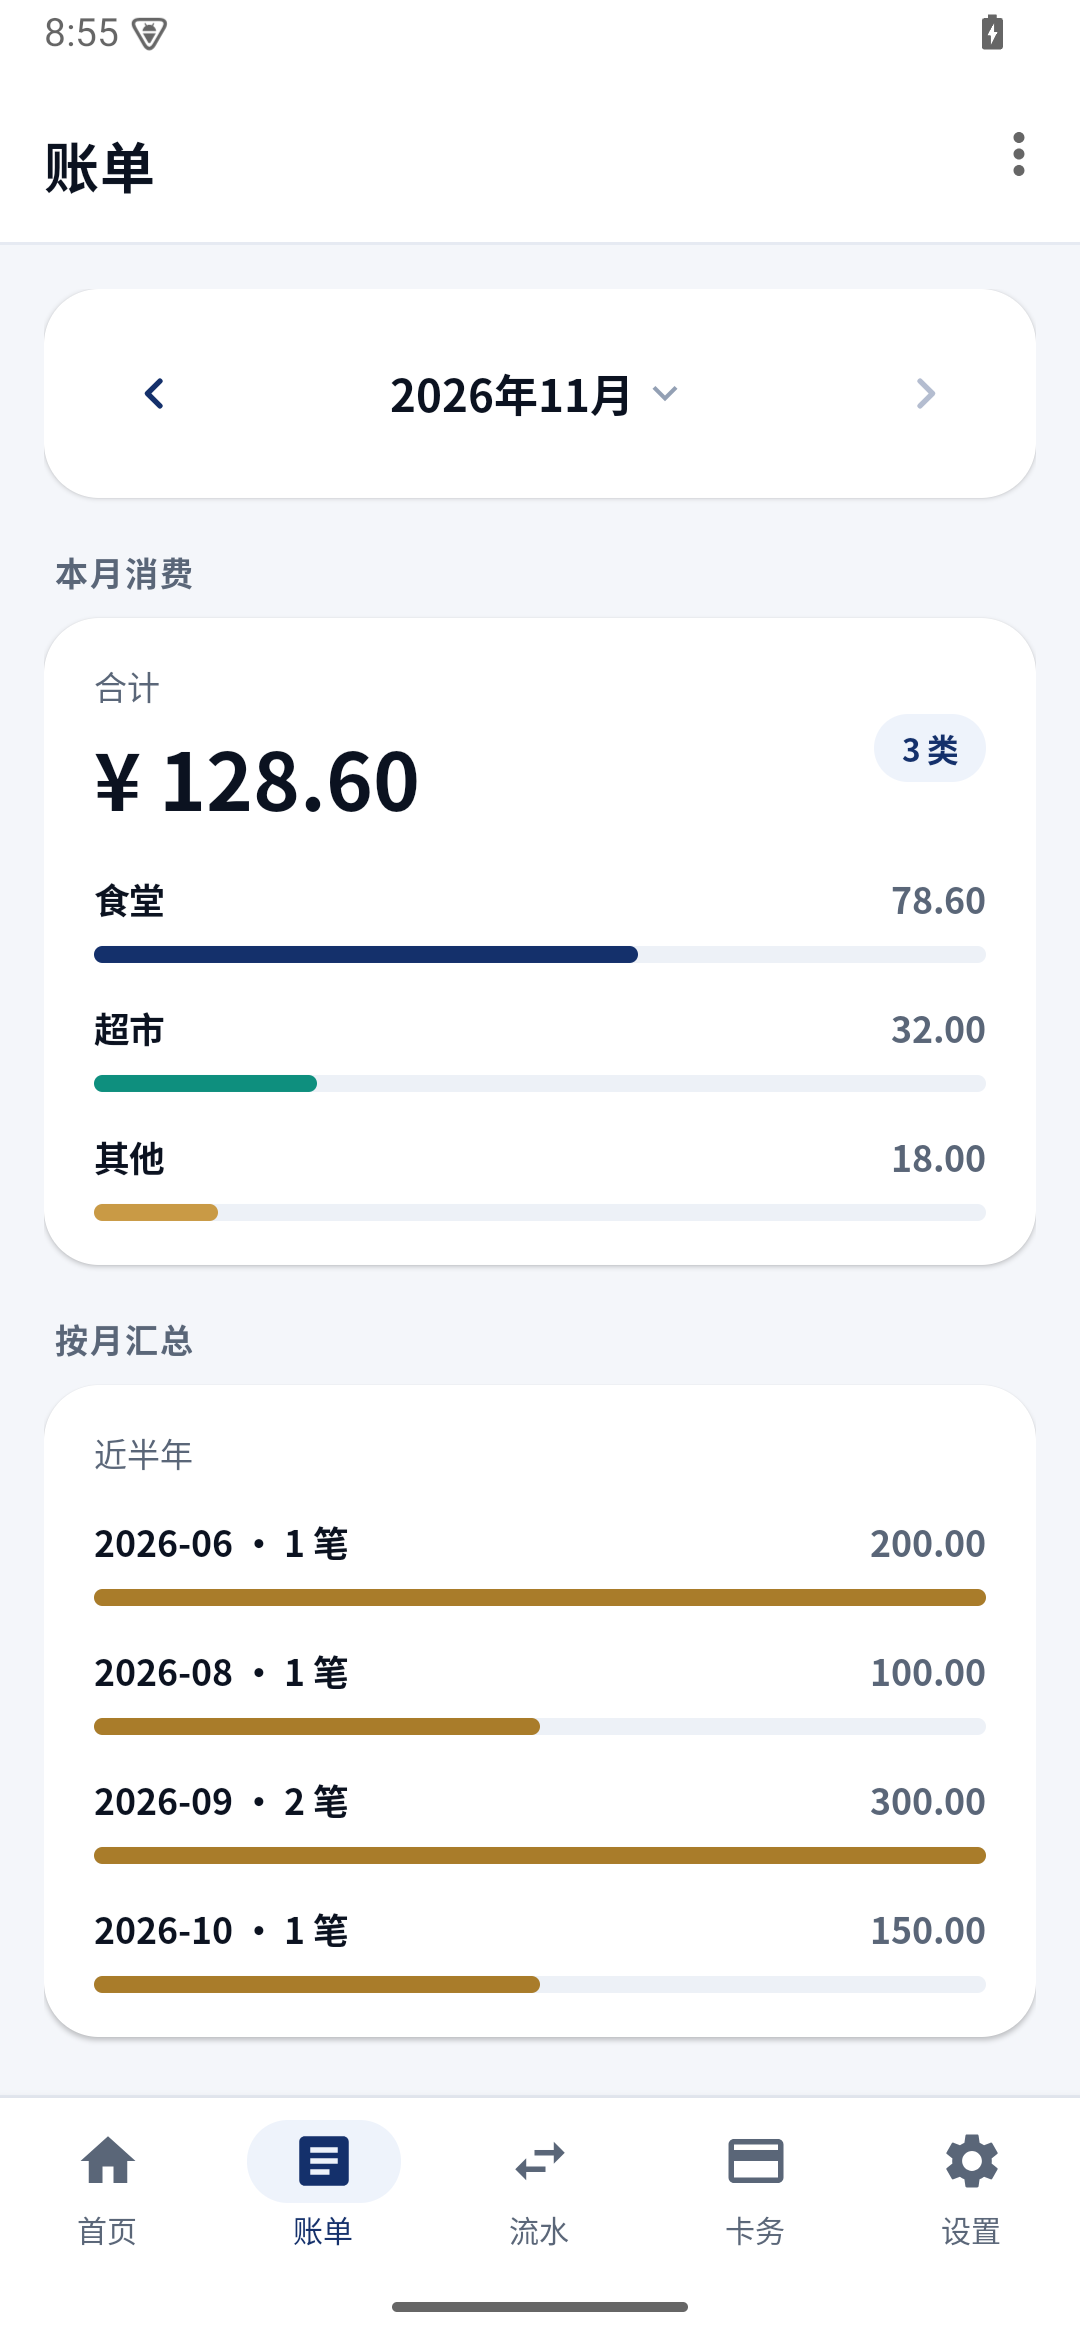
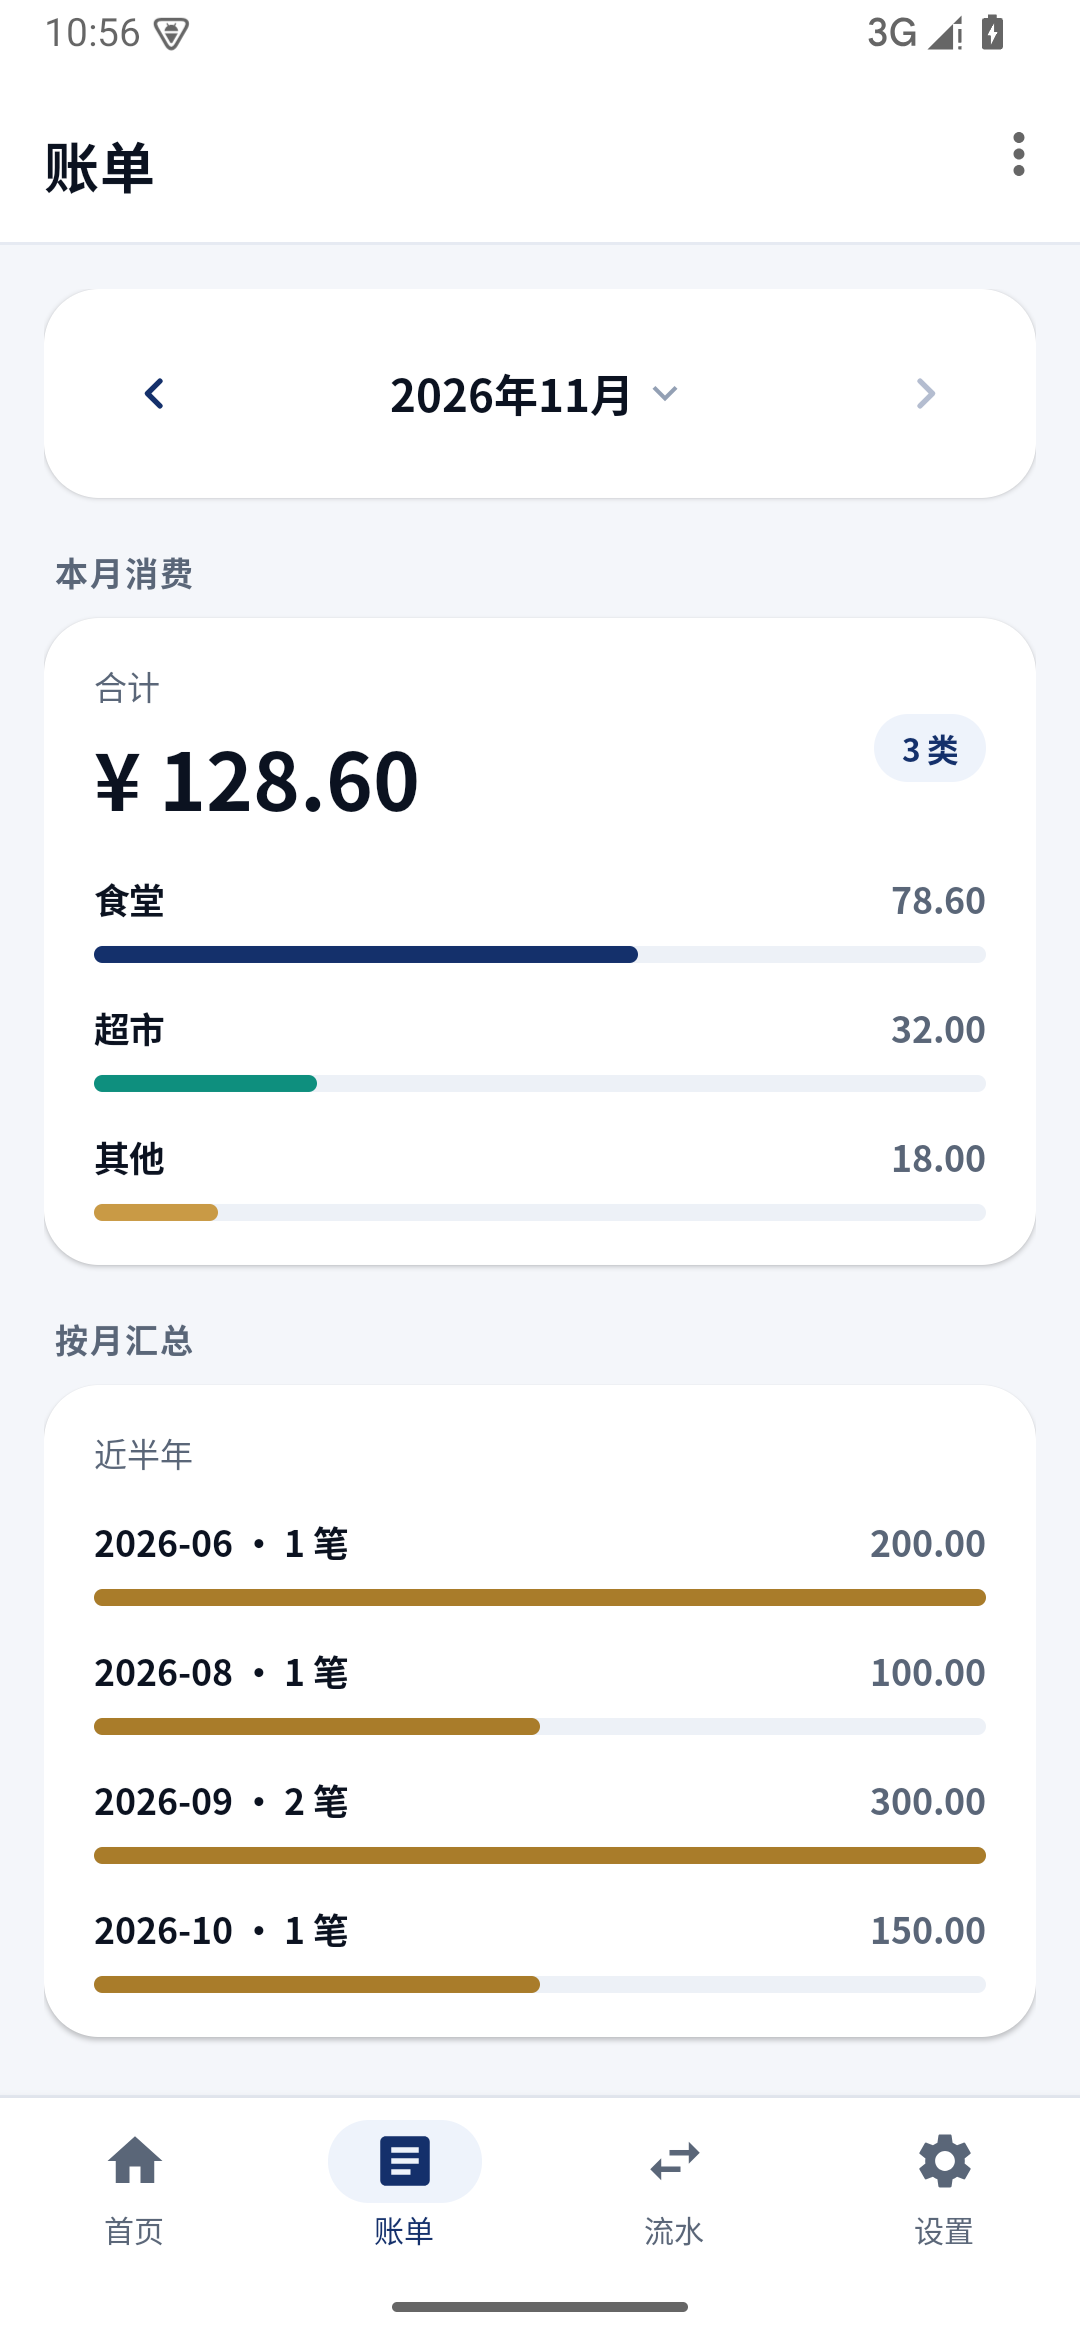
fix: 收敛 QA 阻断项并更新 0.5.0 截图

diff --git a/app/src/main/kotlin/cn/edu/buaa/scp/ui/ZfwActivity.kt b/app/src/main/kotlin/cn/edu/buaa/scp/ui/ZfwActivity.kt
@@ -238,7 +238,7 @@ class ZfwActivity : AppCompatActivity() {
             return
         }
 
-        if (recharge && !payLoaded && !path.contains("/pay/card")) {
+        if (recharge && !payLoaded && !cashierOpening && !path.contains("/pay/card")) {
             payLoaded = true
             binding.webView.loadUrl(ZfwApi.PAY_URL)
             return
@@ -270,6 +270,7 @@ class ZfwActivity : AppCompatActivity() {
             return
         }
         cashierOpening = true
+        payLoaded = true
         successHandled = false
         statusCheckAttempts = 0
         cashierId = ZfwPay.cashierId(cashierUrl)
@@ -302,7 +303,7 @@ class ZfwActivity : AppCompatActivity() {
             val script = "(function(){try{var x=new XMLHttpRequest();" +
                     "x.open('GET','/transaction?id=$cashierId',false);x.send(null);" +
                     "var j=JSON.parse(x.responseText);var d=j.data||{};" +
-                    "return JSON.stringify({status:d.status||'',paid:!!d.tsPay});" +
+                    "return JSON.stringify({status:d.status||''});" +
                     "}catch(e){return '{}'}})()"
             binding.webView.evaluateJavascript(script) { value ->
                 if (successHandled || isFinishing) return@evaluateJavascript
@@ -310,8 +311,7 @@ class ZfwActivity : AppCompatActivity() {
                     JSONObject((value ?: "").trim().trim('"').replace("\\\"", "\""))
                 }.getOrNull()
                 val status = result?.optString("status").orEmpty()
-                val paid = result?.optBoolean("paid") == true || status == "success"
-                if (paid) {
+                if (status == "success") {
                     onRechargeSuccess()
                 } else if (status == "closed") {
                     binding.tvHint.visibility = View.VISIBLE
@@ -332,6 +332,14 @@ class ZfwActivity : AppCompatActivity() {
     }
 
     private fun applyUserAgent(url: String?) {
+        // 收银台 SSO 链路会跨 sso / pass / cashier / tenpay 多个域，
+        // 一旦进入自动接管就保持移动 UA，避免中途回退桌面 UA 导致收银台退回扫码模式。
+        if (cashierOpening) {
+            if (binding.webView.settings.userAgentString != ZfwApi.MOBILE_UA) {
+                binding.webView.settings.userAgentString = ZfwApi.MOBILE_UA
+            }
+            return
+        }
         val host = runCatching { Uri.parse(url.orEmpty()).host.orEmpty() }.getOrDefault("")
         val target = when {
             host.endsWith("cashier.cc-pay.cn") || host.endsWith("pass.cc-pay.cn") ||
@@ -468,7 +476,7 @@ class ZfwActivity : AppCompatActivity() {
                 "var img=document.querySelector('img[src*=\"/pay/qrcode?url=\"]');" +
 
                 "var qr=img?img.getAttribute('src'):'';" +
-                "var success=/支付成功|充值成功|付款成功|交易成功/.test(text)||location.href.indexOf('transaction_result')>=0;" +
+                "var success=location.href.indexOf('transaction_result')>=0;" +
                 "return JSON.stringify({login:login,username:um?um[1]:'',name:name,qr:qr,success:success});" +
                 "}catch(e){return JSON.stringify({login:false,username:'',name:'',qr:'',success:false})}})()"
     }

diff --git a/app/src/main/kotlin/cn/edu/buaa/scp/net/ZfwApi.kt b/app/src/main/kotlin/cn/edu/buaa/scp/net/ZfwApi.kt
@@ -31,7 +31,11 @@ class ZfwApi(private val http: HttpEngine) {
         }
         val home = ZfwHtml.parseHome(response.body)
         if (home == null) {
-            throw ApiException("校园网登录已失效，请重新登录", authExpired = true)
+            // 只有明确落到登录页才判定会话失效；维护页/改版页不应清掉本地会话。
+            if (ZfwHtml.isLoginPage(response.body)) {
+                throw ApiException("校园网登录已失效，请重新登录", authExpired = true)
+            }
+            throw ApiException("网费页面解析失败，请稍后重试")
         }
         LogBus.step("网费数据已更新（在线 ${home.onlineCount} 台设备）")
         home

diff --git a/docs/VERIFICATION.md b/docs/VERIFICATION.md
@@ -95,3 +95,10 @@
 ./gradlew :app:assembleRelease
 ./install.sh
 ```
+
+## 8. 独立复核（QA）
+
+- 独立 QA 报告：`work/scp-050-recon/qa/QA_REPORT.md`；
+- 3 个 P1 已修复：收银台兜底回退、收银台 UA 时序、支付成功判定；
+- 修复记录：`work/scp-050-recon/qa/FIXES.md`；
+- 修复后重新运行 86 个单元测试与 release 构建，均通过。
